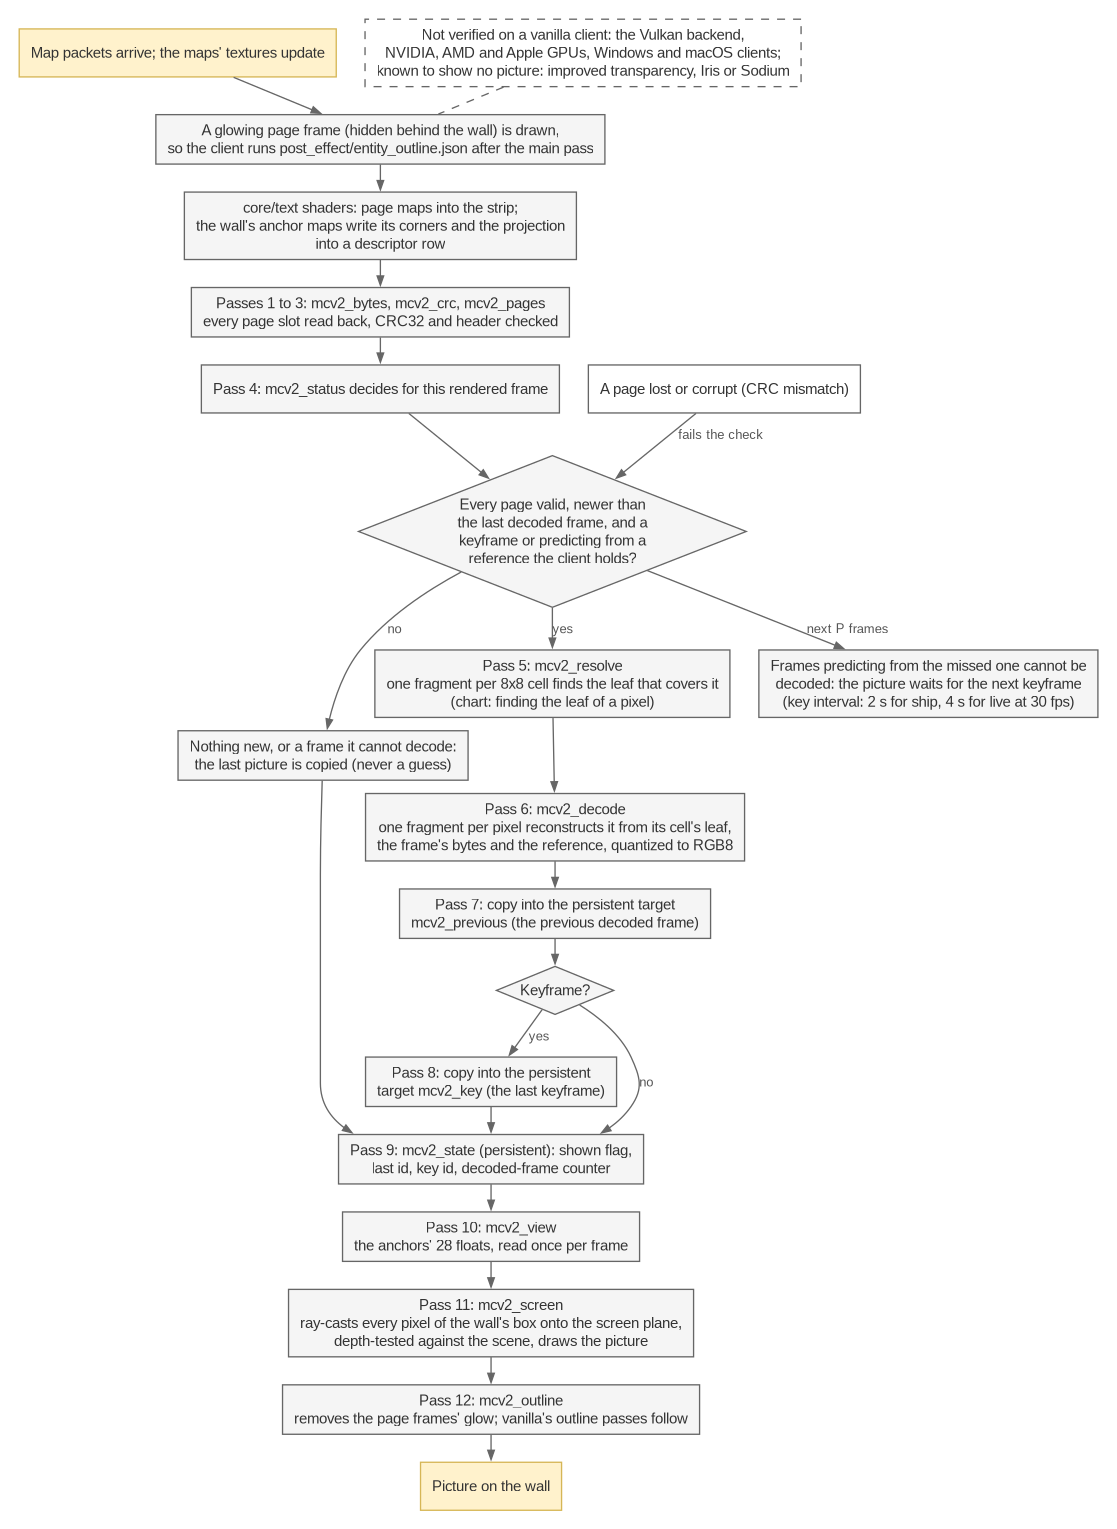
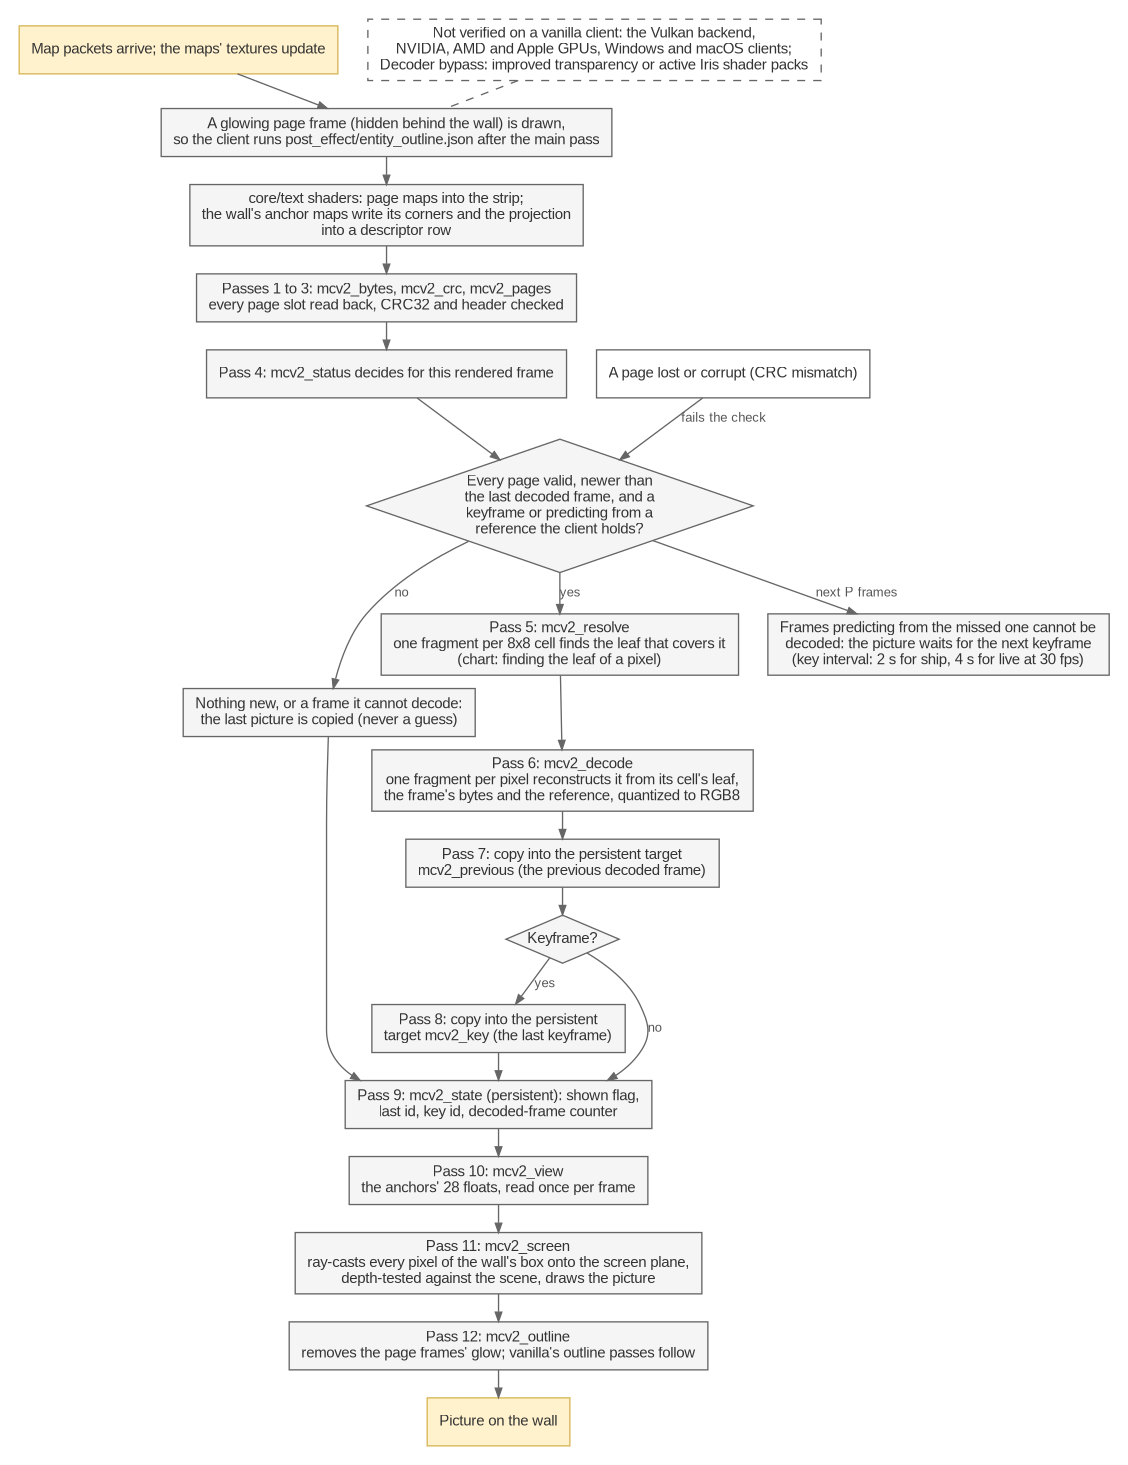
Docs: align decoder diagrams with the measured client matrix
Remove stale blanket Iris/Sodium failure statements from the decoder explanation and diagram. The measured 26.3 matrix passes Sodium 0.9.2 and Iris 1.11.7 with shaders disabled on Fabric and NeoForge under llvmpipe; active shader packs bypass the decoder. Keep unverified hardware/Vulkan and improved-transparency limits explicit. Distinguish historical until-logout pack retention from current one-minute idle-slot retirement. Regenerated the Graphviz PNG and inspected its complete layout. Strict docs-build3 passes with zero warnings and docs/conf.py restored byte-for-byte; runtime walkthrough is recorded separately.

Changed region(s): [[0.0304, 0.0, 0.974, 0.9829], [0.5783, 0.3379, 0.6697, 0.3993], [0.3348, 0.3379, 0.3653, 0.3686]]

diff --git a/docs/mcv2-integration.md b/docs/mcv2-integration.md
@@ -228,8 +228,10 @@ id, the page frames' outline colour, the transport alphabet (the RGB of map colo
   (`UV2`, `Sampler2`), so a lit screen is possible by carrying it in the descriptor row; not done.
 - **Resource reloads** drop persistent targets; the picture returns with the next keyframe (at most the key interval,
   2 s for the shipped profiles).
-- **Known limits.** Iris/Sodium shader pipelines and the Vulkan backend are outside what was tested (on 26.3 with
-  Mesa's software Vulkan the pack's shaders took over ten minutes to compile, §5.2); with improved transparency (26.3's
+- **Known limits.** The original integration did not test Iris/Sodium or the Vulkan backend (on 26.3 with
+  Mesa's software Vulkan the pack's shaders took over ten minutes to compile, §5.2). The later 26.3 client matrix
+  passed Sodium 0.9.2 and Iris 1.11.7 with shaders disabled on Fabric and NeoForge under llvmpipe; active Complementary
+  Reimagined r5.9.3 and BSL 10.1.8 bypass the decoder (see [current compatibility](mcv2/using.md#troubleshooting)). With improved transparency (26.3's
   order-independent transparency, formerly Fabulous) the text shaders draw into the transparency targets, where the
   pack discards its page and anchor fragments, so the screen shows nothing new. Another pack that overrides `core/text`
   or `entity_outline.json` was tested on 26.3 (§14): the pack loaded last wins those files. Seen from behind the wall,
@@ -869,8 +871,9 @@ player); a screen whose pacer steps down to a smaller size adds a slot, and with
 **Other packs.** The pack is optional and additive (`required(false)`, `replace(false)`). With a server pack
 (`server.properties`) that also overrides `core/text.fsh` (tinting text red) and `entity_outline.json` (a wider blur),
 the client stacks the MCV2 pack above it, because it arrives later: MCV2 wins those three files, screens decode, and
-the other pack's text and outline changes are shadowed while the MCV2 pack stays loaded - which is until the player
-leaves, since the pack is not withdrawn when a screen stops. Its other assets are unaffected, and ordinary glowing
+the other pack's text and outline changes are shadowed while the MCV2 pack stays loaded. In that original run it
+remained until the player left. The current pack server keeps a stopped screen's slot for one minute for reuse,
+then rebuilds the pack without it or removes the pack when no slots remain. Its other assets are unaffected, and ordinary glowing
 entities keep their outline (the vanilla passes run after MCV2's). A pack pushed after MCV2's with those files would
 win instead, and MCV2 screens would show nothing while the client reports the pack loaded. A server owner who needs
 their own text or outline shaders must merge them into MCV2's copies (`mcav/mcv2/pack`, and `mcav/mcv2/chain.json` for

diff --git a/docs/mcv2/decoding.md b/docs/mcv2/decoding.md
@@ -20,8 +20,9 @@ the client keeps showing the last picture it decoded, and never draws a guess.
 The chart describes the path proven on the **vanilla client with its OpenGL backend**: in-game captures on Minecraft
 26.3 equal the reference decoder byte for byte, and the chain runs bit-exactly on an Intel UHD 630 and on Mesa's
 llvmpipe. The dashed box is not proven: the Vulkan backend (only tried on a software renderer, where compiling the
-pack's shaders took over ten minutes), NVIDIA, AMD and Apple GPUs, and Windows and macOS clients. Iris or Sodium and the
-improved transparency setting are known to show no MCV2 picture.
+pack's shaders took over ten minutes), NVIDIA, AMD and Apple GPUs, and Windows and macOS clients. The later 26.3
+client matrix passed with Sodium 0.9.2 and Iris 1.11.7 with shaders disabled on Fabric and NeoForge, using llvmpipe.
+Active Iris shader packs and improved transparency can bypass the decoder; see [compatibility](using.md#troubleshooting).
 ```
 
 ## The Hook: a Glowing Entity
@@ -165,8 +166,9 @@ and proven bit-exact again in the real 26.3 client; it copies its own persistent
 - **Lighting.** The picture is drawn at full brightness, like a map in a glow item frame, because the post chain has
   no light level for the wall.
 - **Resource reloads** drop the persistent targets; the picture returns with the next keyframe.
-- **Iris, Sodium, the Vulkan backend and improved transparency** are outside what was tested; with improved
-  transparency the text shaders draw into its targets, where the pack discards its fragments, so the screen shows
-  nothing new.
+- **Iris shader packs and improved transparency** can bypass the decoder. Sodium and Iris with shaders disabled
+  passed the 26.3 software-rendered client matrix. With improved transparency the text shaders draw into its targets,
+  where the pack discards its fragments, so the screen shows nothing new. Vulkan and hardware-driver coverage remain
+  unverified; see [compatibility](using.md#troubleshooting).
 - **A client that renders fewer frames than the video** decodes at most one video frame per rendered frame; under
   model A a missed frame costs the picture until the next keyframe.
